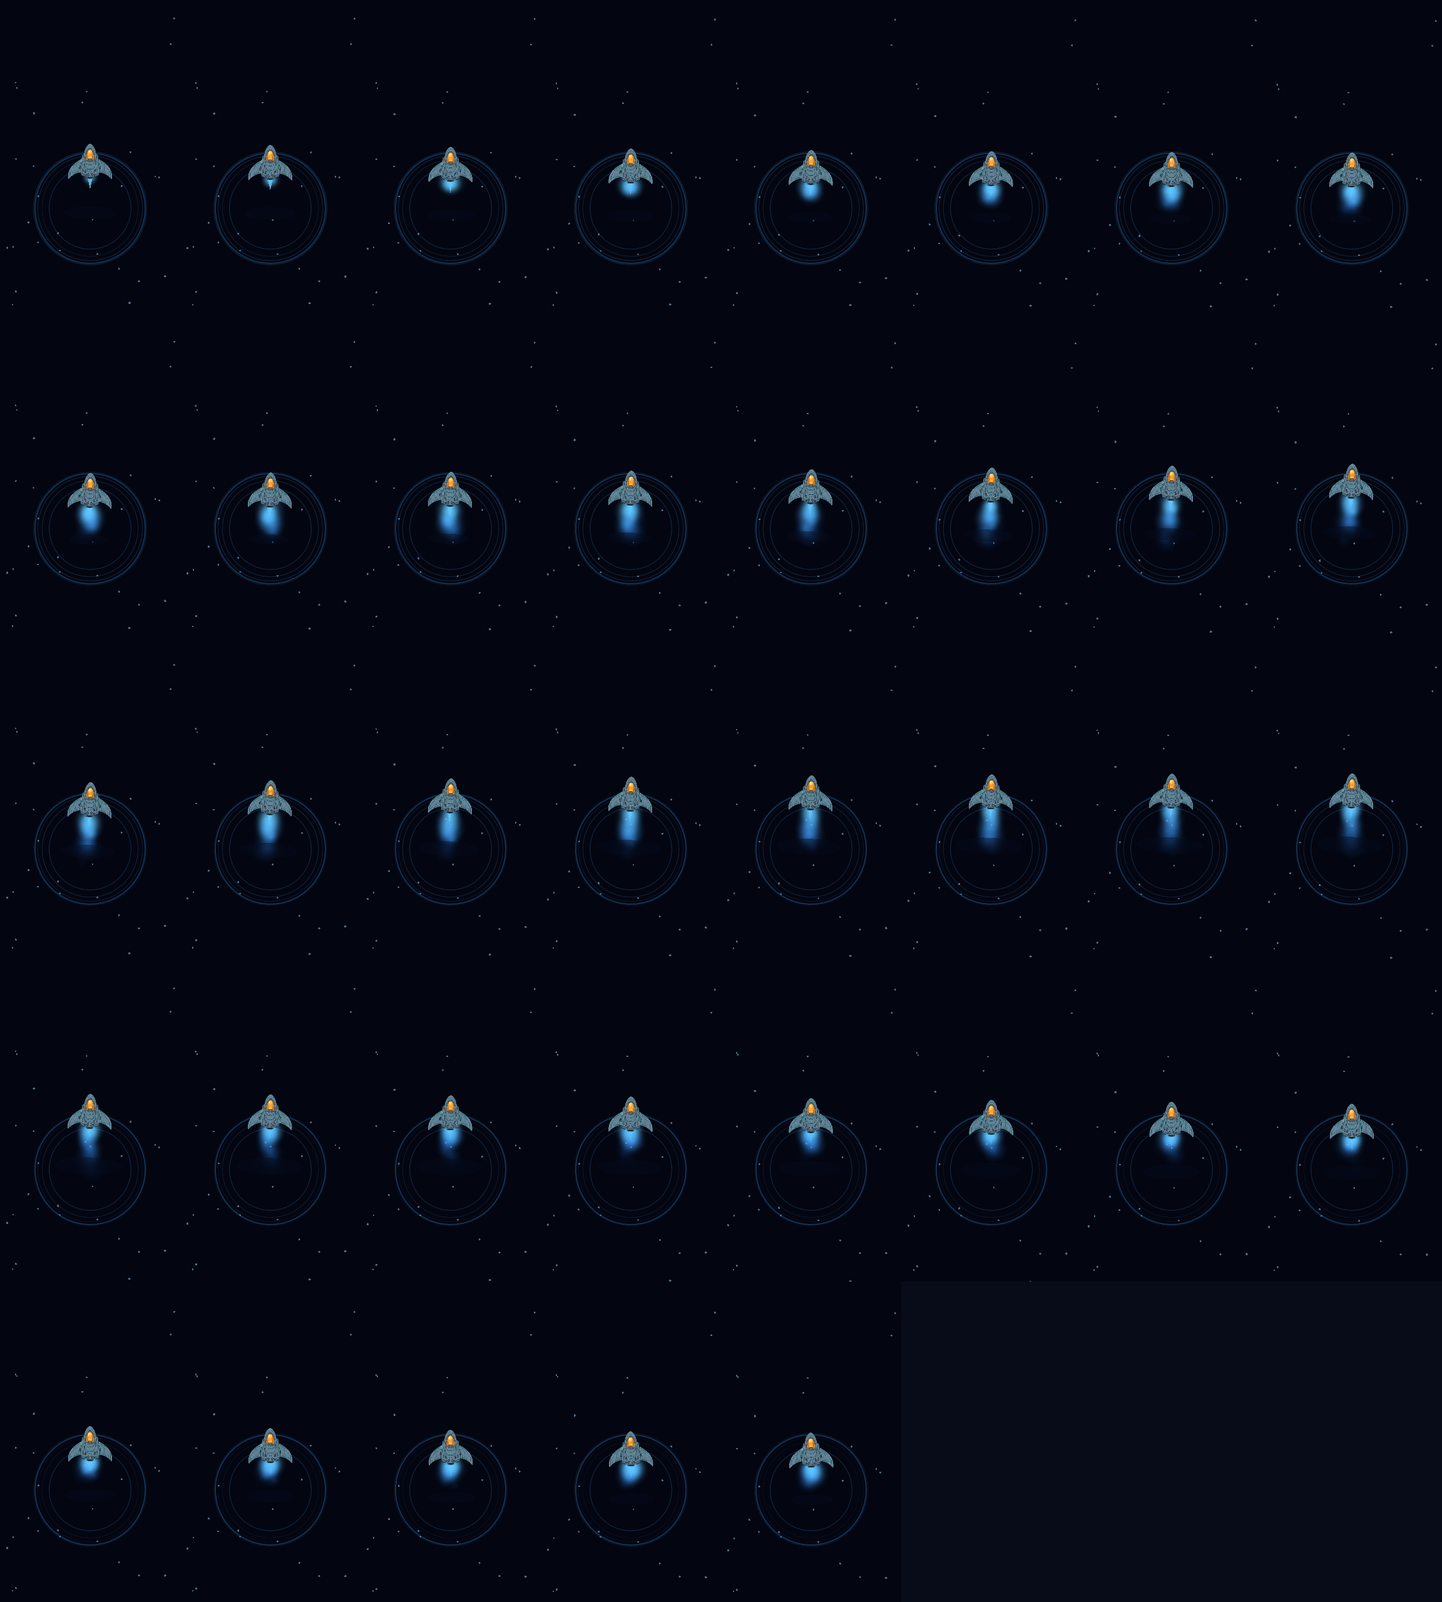
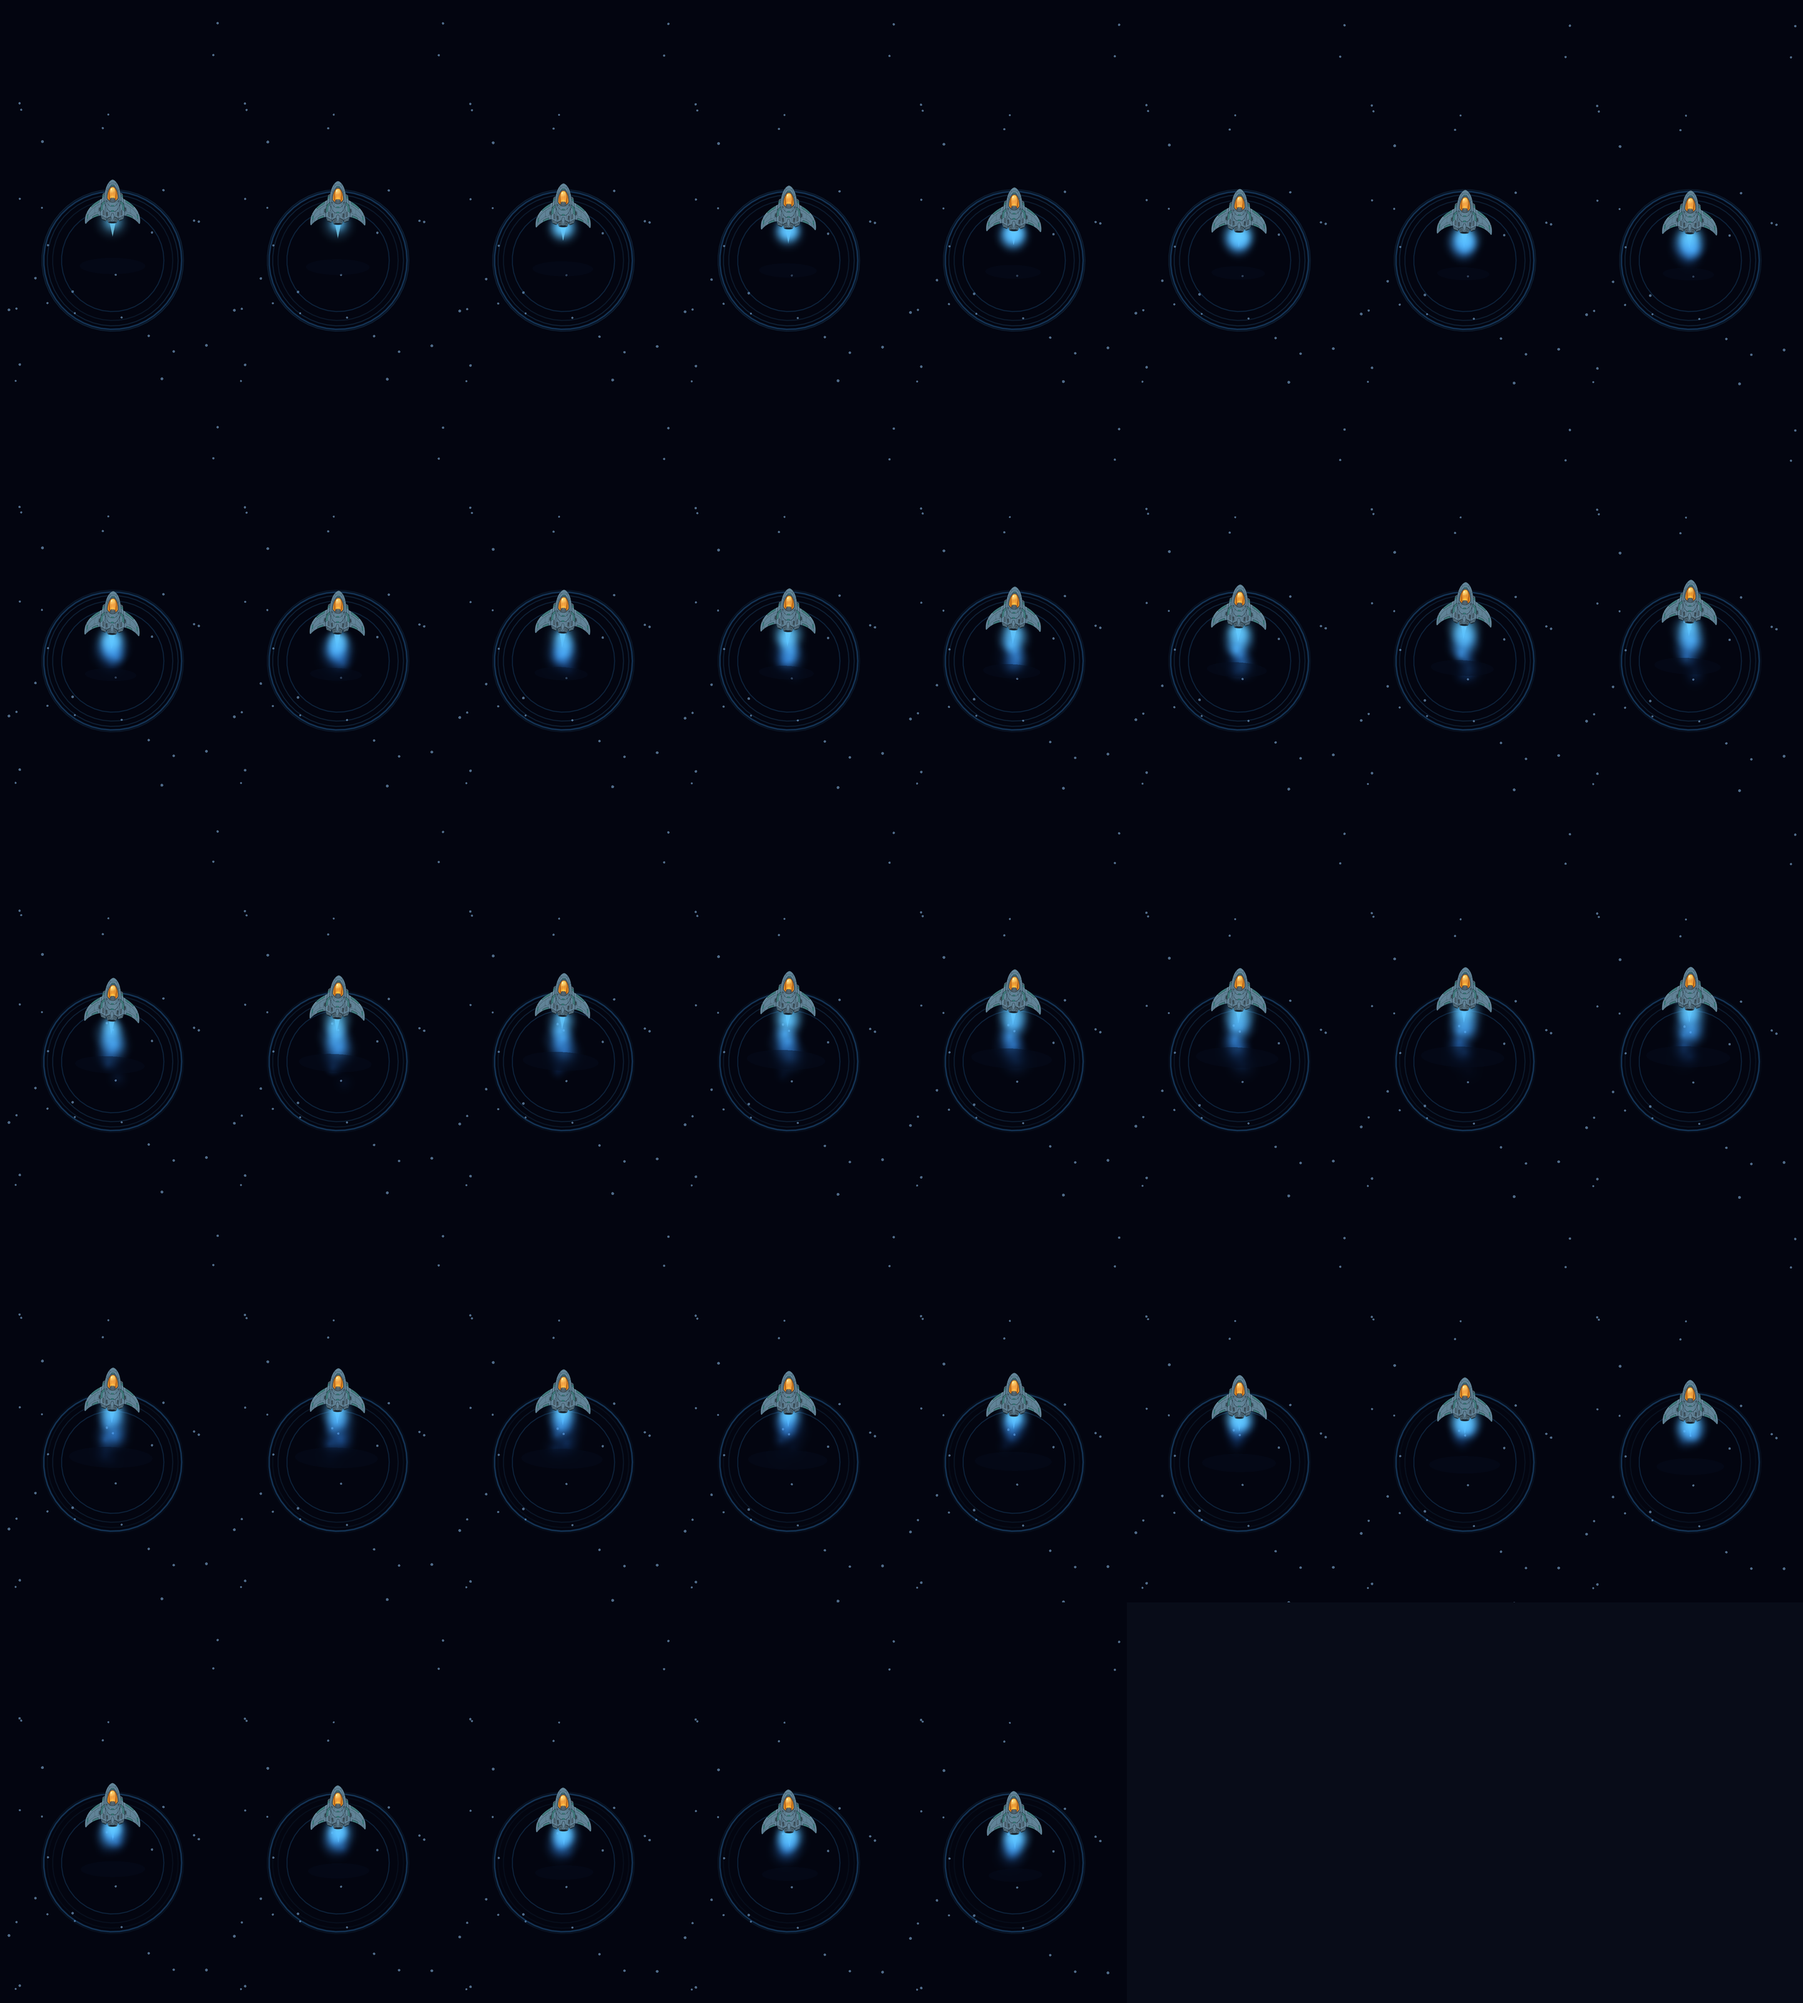
chore(motion): refresh ANIM-A frame evidence [skip ci]

diff --git a/motion/A/README.md b/motion/A/README.md
@@ -8,13 +8,14 @@ in order, so the motion can be read without playing the GIF.
 - Variant: ANIM-A - layered animation (ship body + glow layer, boss body/gun-l/gun-r/core, guns track the ship)
 - Art source: package
 - Capture rate: 12 fps
-- Frame width: 288px
+- Frame width: 360px
 
 | Segment | Frames | Simulated seconds | GIF | Frame sheet |
 |---|---:|---:|---|---|
 | boss | 92 | 7.58 | `boss.gif` | `boss-sheet.png` |
 | flight | 32 | 2.58 | `flight.gif` | `flight-sheet.png` |
 | hangar | 37 | 3.00 | `hangar.gif` | `hangar-sheet.png` |
+| turret | 42 | 3.42 | `turret.gif` | `turret-sheet.png` |
 
 Scenes: `hangar` = ship idle animation (float, breathing shadow, glow pulse,
 idle flame), `flight` = ship gliding and firing (banking, engine plume), `boss`
